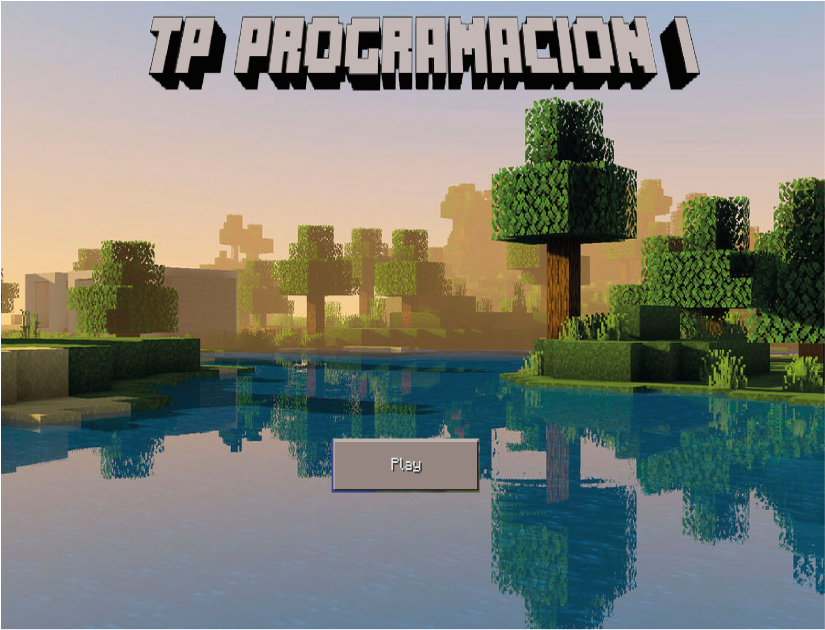
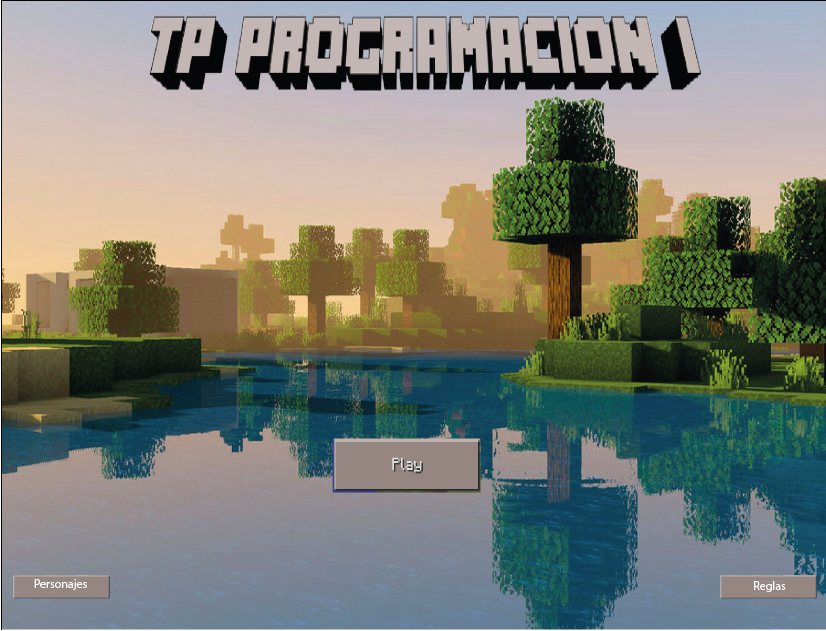
terminado

diff --git a/src/juego/Juego.java b/src/juego/Juego.java
@@ -37,10 +37,13 @@ public class Juego extends InterfaceJuego {
 	int indicePosiciones = 0;
 	private boolean cooldownVidas;
 	private int timerVidas = 0;
-	private Image fondo, menu, gameOver;
+	private Image fondo, menu, gameOver,gameOver2, personajes, reglas, ganar;
 	private boolean juegoIniciado = false;
 	private Tiempo tiempo;
 	private NaveAerea naveAerea;
+	private boolean termino = false;
+
+
 
 	Juego() {
 		this.entorno = new Entorno(this, "Proyecto para TP", 800, 600);
@@ -95,6 +98,10 @@ public class Juego extends InterfaceJuego {
 		fondo = Herramientas.cargarImagen("recursos/fondo.jpg");
 		menu = Herramientas.cargarImagen("recursos/menu.png");
 		gameOver = Herramientas.cargarImagen("recursos/gameOver.png");
+		gameOver2 = Herramientas.cargarImagen("recursos/gameOver2.png");
+		personajes = Herramientas.cargarImagen("recursos/personajes.png");
+		reglas = Herramientas.cargarImagen("recursos/reglas.png");
+		ganar = Herramientas.cargarImagen("recursos/ganar.png");
 
 	}
 
@@ -102,31 +109,47 @@ public class Juego extends InterfaceJuego {
 		entorno.cambiarFont("Arial", 25, Color.white);
 		entorno.escribirTexto("Gnomos perdidos: " + ContGnomosPerdidos, entorno.ancho() - 263, entorno.alto() - 70);
 	}
+	
 
 	public void tick() {
 		if (!juegoIniciado) {
 			entorno.dibujarImagen(menu, entorno.ancho() / 2, entorno.alto() / 2, 0, 1);
 			if (entorno.mouseX() >= 305 && entorno.mouseX() <= 495 && entorno.mouseY() >= 420
-					&& entorno.mouseY() <= 500)// si el mouse esta ubicado en el boton
+					&& entorno.mouseY() <= 500){// si el mouse esta ubicado en el boton
 				if (entorno.sePresionoBoton(entorno.BOTON_IZQUIERDO)) {// si el click del mouse fue apretado
 					juegoIniciado = true; // Inicia el juego si se presiona el espacio
-				}
+				}}
+		 // para que si esta parado el mouse en esas coordenadas muestre a los personajes
+			if (entorno.mouseX() >= 0 && entorno.mouseX() <= 100 && entorno.mouseY() >= 550
+					&& entorno.mouseY() <= 600){
+				entorno.dibujarImagen(personajes, entorno.ancho() / 2, entorno.alto() / 2, 0, 1);
+			  }
+			
+			// para que si esta parado el mouse en esas coordenadas muestre las reglas
+			if (entorno.mouseX() >= 700 && entorno.mouseX() <= 800 && entorno.mouseY() >= 550
+					&& entorno.mouseY() <= 600){
+				entorno.dibujarImagen(reglas, entorno.ancho() / 2, entorno.alto() / 2, 0, 1);
+
+			  }
+		
 			return;
+			
 		}
-	
 		entorno.dibujarImagen(fondo, entorno.ancho() / 2, entorno.alto() / 2, 0, 1);
 		tiempo.dibujarTiempo();
-
+		
 		// Verifica que pep este vivo, si no esta, pasa a la pantalla de GameOver
 		if (pep == null) {
 			entorno.dibujarImagen(gameOver, entorno.ancho() / 2, entorno.alto() / 2, 0, 1);
-			if (entorno.mouseX() >= 240 && entorno.mouseX() <= 560 && entorno.mouseY() >= 550
-					&& entorno.mouseY() <= 580)// si el mouse esta ubicado en el boton
+			if (entorno.mouseX() >= 240 && entorno.mouseX() <= 560 && entorno.mouseY() >= 500
+					&& entorno.mouseY() <= 590)// si el mouse esta ubicado en el boton
 				if (entorno.sePresionoBoton(entorno.BOTON_IZQUIERDO)) {// si el click del mouse fue apretado
 					inicializarJuego();// Inicia el juego si se presiona el espacio
+					termino= false;
 				}
 			return;
 		}
+
 
 // Dibujar las islas
 		for (int i = 0; i < islas.length; i++) {
@@ -234,6 +257,18 @@ public class Juego extends InterfaceJuego {
 				pep = null; // Si pierde todas las vidas, se elimina a Pep
 			}
 		}
+		// Verifica otra vez q pep este vivo, si no esta, pasa a la pantalla de GameOver
+				if (pep == null) {
+					entorno.dibujarImagen(gameOver, entorno.ancho() / 2, entorno.alto() / 2, 0, 1);
+					if (entorno.mouseX() >= 240 && entorno.mouseX() <= 560 && entorno.mouseY() >= 500
+							&& entorno.mouseY() <= 590)// si el mouse esta ubicado en el boton
+						if (entorno.sePresionoBoton(entorno.BOTON_IZQUIERDO)) {// si el click del mouse fue apretado
+							inicializarJuego();// Inicia el juego si se presiona el espacio
+							termino= false;
+						}
+					return;
+				}
+
 
 		if (cooldownVidas) {
 			timerVidas++;
@@ -252,6 +287,7 @@ public class Juego extends InterfaceJuego {
 				}
 			}
 		}
+
 		// pep colision con gnomo dorado
 		if (pep.colisionaGnomo(gnomoDorado) != null && pep.pepPuedeSalvar()) { //
 			// cantidad maxima de vidas que puede tener: 4
@@ -267,7 +303,6 @@ public class Juego extends InterfaceJuego {
 				}
 			}
 		}
-		
 //-------------------- LOGICA NAVE ----------------------//
         naveAerea.mover(entorno);
         naveAerea.dibujarNave(entorno);
@@ -300,7 +335,7 @@ public class Juego extends InterfaceJuego {
 //----------LOGICA DE GNOMOS-------------//		
 // Spawneo de gnomos
 		timerGnomos++;
-		if (timerGnomos >= 400 && gnomosVivos < 12) {
+		if (timerGnomos >= 400 && gnomosVivos < 20) {
 			for (int i = 0; i < gnomo.length; i++) {
 				if (gnomo[i] == null) {
 					double x = entorno.ancho() - 380;
@@ -308,7 +343,7 @@ public class Juego extends InterfaceJuego {
 					gnomo[i] = new Gnomos(x, y, 10, 10, 1);
 					gnomosVivos++;
 					timerGnomos = 0;
-					System.out.println("Gnomo creado en posición " + i);
+					//System.out.println("Gnomo creado en posición " + i);
 					return;
 				}
 			}
@@ -357,6 +392,9 @@ public class Juego extends InterfaceJuego {
 			}
 		}
 		mostrarPerdidos(entorno);
+
+		
+		
 //-----------------LOGICA DE TORTUGAS-----------------------		
 // Spawneo de tortugas
 		timerTortugas++;
@@ -379,7 +417,7 @@ public class Juego extends InterfaceJuego {
 					for (int i = 0; i < tortugas.length; i++) {
 						if (tortugas[i] == null) {
 							tortugas[i] = new Tortuga(xAleatorio, yInicial, 30, 30, 0.5);
-							System.out.println("Tortuga creada en posición X: " + xAleatorio + ", Y: " + yInicial);
+							//System.out.println("Tortuga creada en posición X: " + xAleatorio + ", Y: " + yInicial);
 							tortugasVivas++;
 							timerTortugas = 0;
 							return;
@@ -449,6 +487,14 @@ public class Juego extends InterfaceJuego {
 				}
 			}
 		}
+
+		if(ContGnomosPerdidos == 10) {
+			entorno.dibujarImagen(gameOver2, entorno.ancho() / 2, entorno.alto() / 2, 0, 1);
+		}
+		if(pep.rescatados()== 10) {
+			entorno.dibujarImagen(ganar, entorno.ancho() / 2, entorno.alto() / 2, 0, 1);
+		}
+
 	}
 
 	@SuppressWarnings("unused")

diff --git a/src/juego/Pep.java b/src/juego/Pep.java
@@ -179,6 +179,12 @@ public class Pep {
 																										// jugador
 	}
 	
+	
+	public int rescatados () {
+		return rescates;
+		
+	}
+	
 	public double getX() {
 		return x;
 	}
